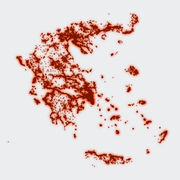
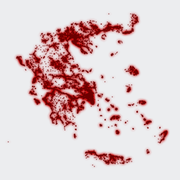
Share card: light background with a blood-red map
Back to the light grey background behind Greece, with the collision
heatmap in blood red. Title and subtitle are dark, «ατύχημα» and the
collision count are blood red, transports dark blue. Site icons use
the same blood-red map.

Claude-Session: https://claude.ai/code/session_019fEwLyPi1Es2eciPmXZeF8

diff --git a/scripts/og.py b/scripts/og.py
@@ -25,8 +25,8 @@ def draw_map(img, box, blur=5, gain=9, glow_c=(255, 107, 61), core_c=(122, 21, 0
 # share card 1200x630; everything sits in the central 600px so side-cropped previews keep it
 W, H = 1200, 630
 DARK = (22, 27, 34)
-img = Image.new('RGB', (W, H), DARK)
-draw_map(img, (425, 196, 775, 548), blur=4, gain=10, glow_c=(190, 40, 10), core_c=(255, 150, 80))
+img = Image.new('RGB', (W, H), BG)
+draw_map(img, (425, 196, 775, 548), blur=4, gain=10, glow_c=(200, 20, 20), core_c=(110, 0, 0))   # blood red
 dr = ImageDraw.Draw(img)
 title = ImageFont.truetype(F + 'Inter-Bold.otf', 62)
 sub = ImageFont.truetype(F + 'Inter-Regular.otf', 26)
@@ -35,22 +35,22 @@ small = ImageFont.truetype(F + 'Inter-Regular.otf', 18)
 cx = W // 2
 tw1 = dr.textlength('Δεν είναι ', font=title); tw2 = dr.textlength('ατύχημα', font=title)
 x = cx - (tw1 + tw2) / 2
-dr.text((x, 40), 'Δεν είναι ', font=title, fill=(232, 236, 241))
-dr.text((x + tw1, 40), 'ατύχημα', font=title, fill=(255, 210, 63))
-dr.text((cx, 120), 'Τροχαίες συγκρούσεις και διακομιδές', font=sub, fill=(185, 196, 210), anchor='mt')
-dr.text((cx, 154), 'στην Ελλάδα, 2020–2025', font=sub, fill=(185, 196, 210), anchor='mt')
+dr.text((x, 40), 'Δεν είναι ', font=title, fill=(22, 27, 34))
+dr.text((x + tw1, 40), 'ατύχημα', font=title, fill=(138, 3, 3))
+dr.text((cx, 120), 'Τροχαίες συγκρούσεις και διακομιδές', font=sub, fill=(70, 78, 90), anchor='mt')
+dr.text((cx, 154), 'στην Ελλάδα, 2020–2025', font=sub, fill=(70, 78, 90), anchor='mt')
 a, b = '84.331 συγκρούσεις', '119.897 διακομιδές'
 gap = 28
 wa, wb = dr.textlength(a, font=stat), dr.textlength(b, font=stat)
 x = cx - (wa + gap + wb) / 2
-dr.text((x, 568), a, font=stat, fill=(255, 107, 61))
-dr.text((x + wa + gap, 568), b, font=stat, fill=(76, 194, 255))
-dr.text((cx, 606), 'Πηγή: accidents.maps.gov.gr', font=small, fill=(120, 130, 142), anchor='mt')
+dr.text((x, 568), a, font=stat, fill=(138, 3, 3))
+dr.text((x + wa + gap, 568), b, font=stat, fill=(0, 92, 150))
+dr.text((cx, 606), 'Πηγή: accidents.maps.gov.gr', font=small, fill=(110, 118, 128), anchor='mt')
 img.save(f'{repo}/og.png', optimize=True)
 
 # square icon: map only
 ic = Image.new('RGB', (512, 512), BG)
-draw_map(ic, (28, 28, 484, 484), blur=4, gain=10)
+draw_map(ic, (28, 28, 484, 484), blur=4, gain=10, glow_c=(200, 20, 20), core_c=(110, 0, 0))
 ic.save(f'{repo}/icon-512.png', optimize=True)
 ic.resize((180, 180), Image.LANCZOS).save(f'{repo}/apple-touch-icon.png', optimize=True)
 ic.resize((32, 32), Image.LANCZOS).save(f'{repo}/favicon.png', optimize=True)
